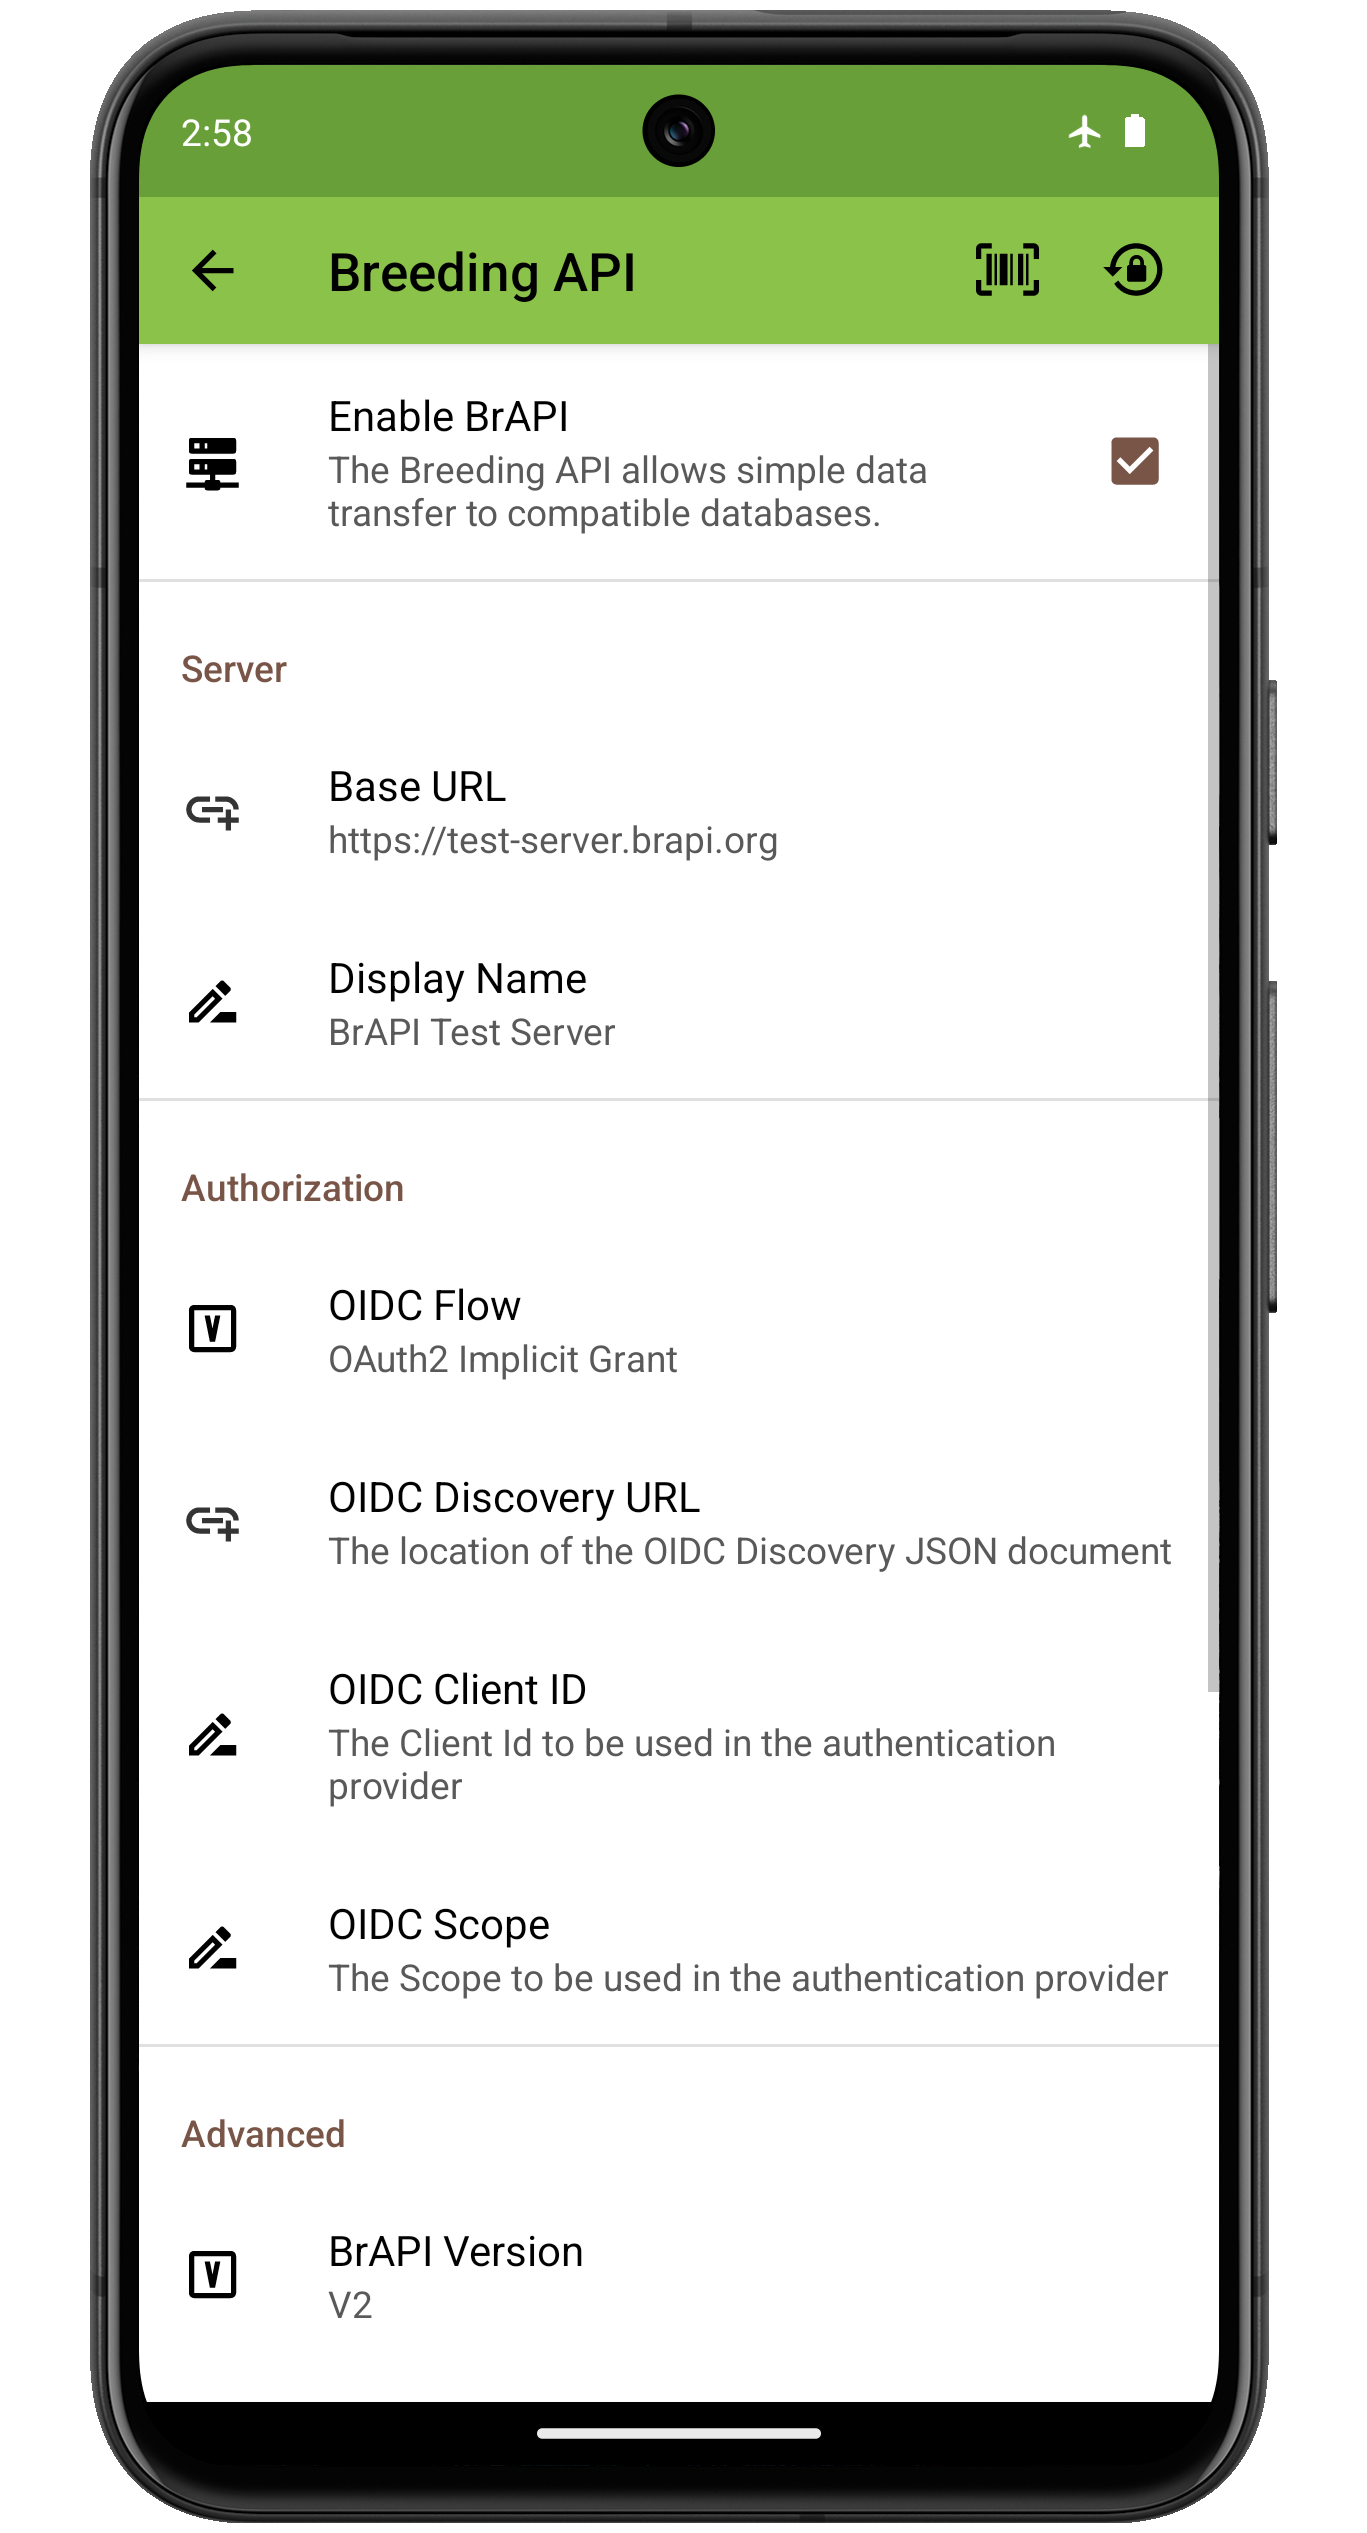
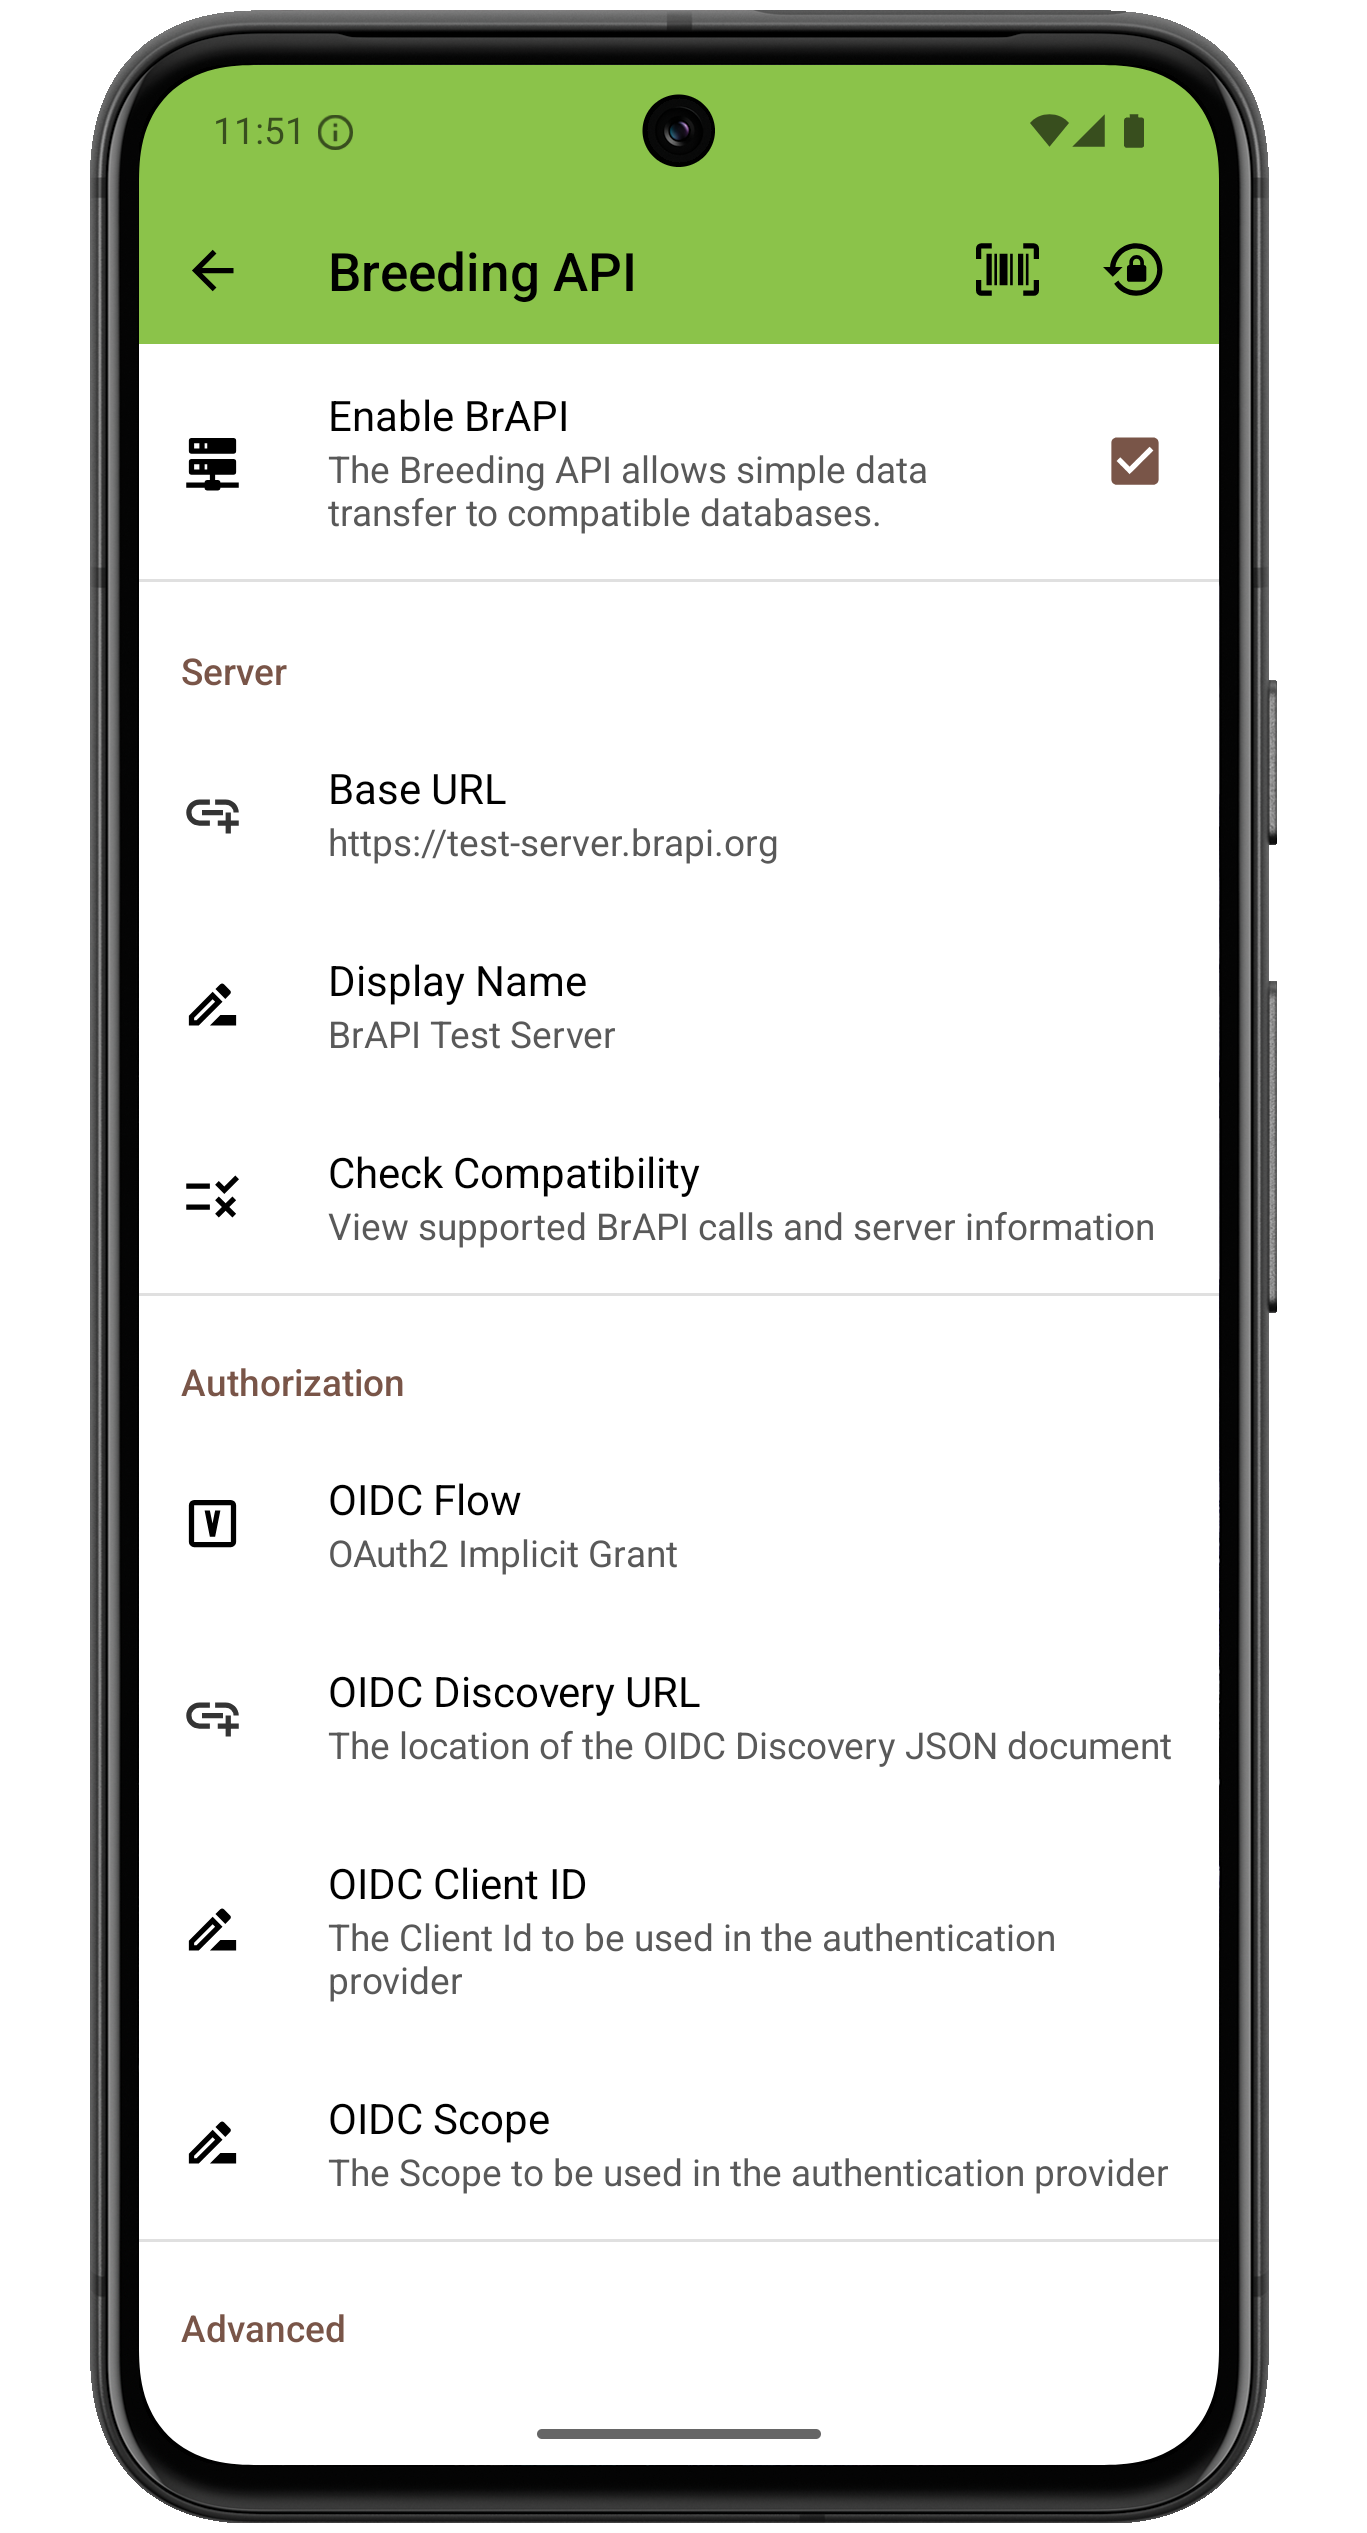
Add brapi compatibility docs

diff --git a/docs/settings/settings-brapi.md b/docs/settings/settings-brapi.md
@@ -32,6 +32,23 @@ Set the display name Field Book should use when referring to the BrAPI server.
   <figcaption class="screenshot-caption"><i>BrAPI Display Name setting</i></figcaption> 
 </figure>
 
+#### <img class="icon" src="_static/icons/settings/brapi/compatibility.png"> Check Compatibility
+
+View the supported BrAPI calls and server information.
+
+<figure class="image">
+  <img class="screenshot" src="_static/images/settings/brapi/joined_brapi_compatibility.png" width="700px"> 
+  <figcaption class="screenshot-caption"><i>BrAPI Display Name setting</i></figcaption> 
+</figure>
+
+The top card shows the server name, organization and description.
+
+The second card shows a comparison between all the BrAPI calls that Field Book supports with whether the server supports it.
+This is crucial to identify shortcomings on the server side.
+The user can choose to implement any missing calls on the server so that all Field Book supported BrAPI functionalities can be used with the server.
+
+The remaining cards show module-wise comparison of all calls in the BrAPI specification and whether the server and/or Field Book supports it.
+
 ## Authorization
 
 #### <img class="icon" src="_static/icons/settings/brapi/alpha-v-box-outline.png"> OIDC Flow
